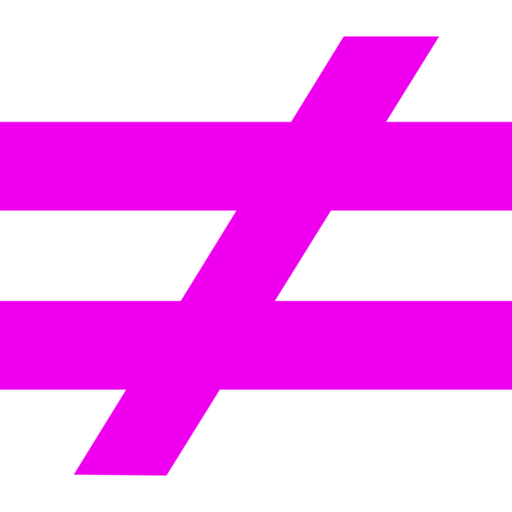
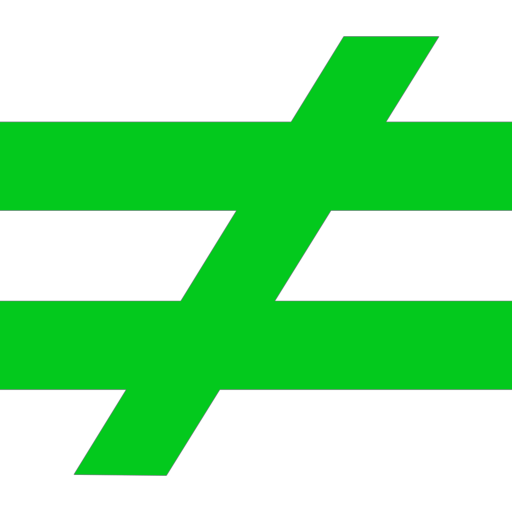
YNK_44 colour change

diff --git a/src/styles/global.css b/src/styles/global.css
@@ -8,36 +8,36 @@
 
 @layer base {
   :root {
-    --color-primary: 238 0 238;
-    --color-primary-hover: 255 61 255;
+    --color-primary: 3 201 29;
+    --color-primary-hover: 0 141 20;
     --color-secondary: 213 215 213;
     --color-tertiary: 35 40 47;
   }
   @media (prefers-color-scheme: light) {
     :root {
-      --color-primary: 238 0 238;
-      --color-primary-hover: 255 61 255;
+      --color-primary: 0 141 20;
+      --color-primary-hover: 3 201 29;
       --color-secondary: 35 40 47;
-      --color-tertiary: 213 215 213;
+      --color-tertiary: 235 255 254;
     }
   }
   @media (prefers-color-scheme: dark) {
     :root {
-      --color-primary: 238 0 238;
-      --color-primary-hover: 255 61 255;
+      --color-primary: 3 201 29;
+      --color-primary-hover: 0 141 20;
       --color-secondary: 213 215 213;
       --color-tertiary: 35 40 47;
     }
   }
   [data-theme="light"] {
-    --color-primary: 238 0 238;
-    --color-primary-hover: 255 61 255;
+    --color-primary: 0 141 20;
+    --color-primary-hover: 3 201 29;
     --color-secondary: 35 40 47;
-    --color-tertiary: 213 215 213;
+    --color-tertiary: 235 255 254;
   }
   [data-theme="dark"] {
-    --color-primary: 238 0 238;
-    --color-primary-hover: 255 61 255;
+    --color-primary: 3 201 29;
+    --color-primary-hover: 0 141 20;
     --color-secondary: 213 215 213;
     --color-tertiary: 35 40 47;
   }
